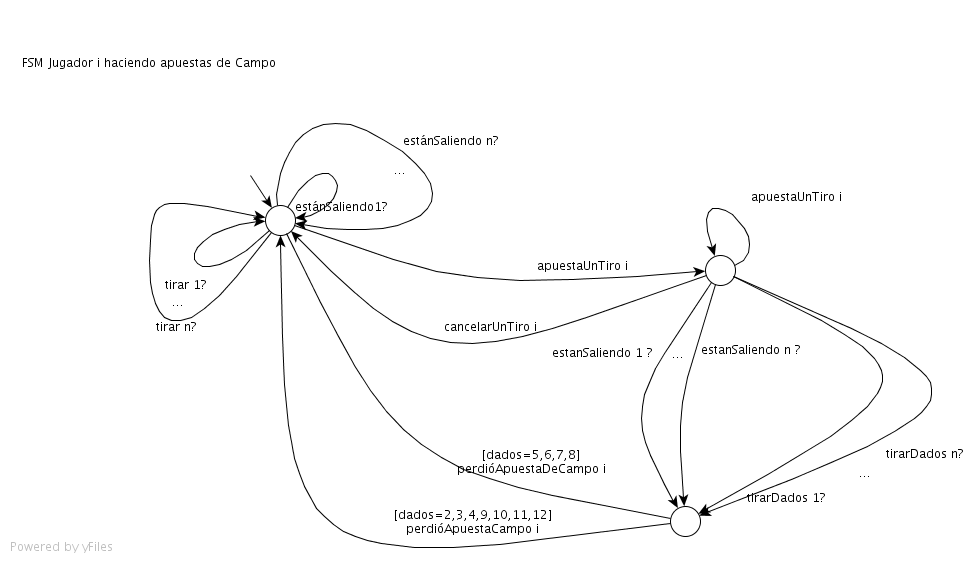
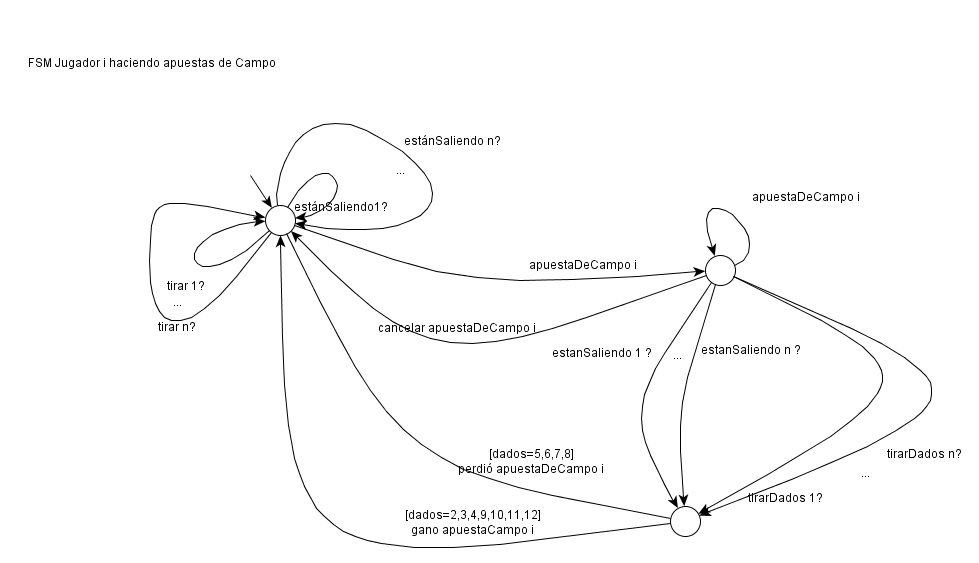
tablitas de labels de fsm's e algunas modificaciones en las imagenes

diff --git a/tp1/informe/glosario.tex b/tp1/informe/glosario.tex
@@ -8,7 +8,8 @@
 \subsubsection{Craps}
 \begin{center}
     \begin{tabular}{p{5cm}|p{8cm}}
- 
+
+%%%%%%%%%%% TIRADOR %%%%%%%%%%%% 
 %      \multicolumn{2}{c}{Referencias de las etiquetas y Variable de la \negrita{ \tirador{} } \\
     \hline
     \negrita{Etiqueta de la transici'on} & \negrita{Acci'on} \\
@@ -34,7 +35,8 @@
     \label{glosarioFSMjugadori}
     \end{tabular}
 \end{center}
- 
+
+%%%%%%%%%%% CRUPIER %%%%%%%%%%%% 
  \begin{center}
     \begin{tabular}{p{5cm}|p{8cm}}
            \multicolumn{2}{c}{Referencias de las etiquetas de la \crupier } \\
@@ -44,33 +46,70 @@
             darleDadosAl ProximoTirador & los dados pasan al pr'oximo jugador  \\
         \hline
             \italica{Variable} tirador & almancena el n'umero de tirador actual o candidato a tirador si decidiera dejar los dados\\
+        \hline
+            \italica{Variable} punto & almancena el valor del punto en la ronda.\\
  \end{tabular}
  \end{center}
 
+%%%%%%%%%%% APUESTA LINEA DE PASE / BARRA NO PASE %%%%%%%%%%%% 
 \begin{center}
   \begin{tabular}{p{5cm}|p{8cm}}
-      \multicolumn{2}{c}{Referencias de las etiquetas de la \textbf{FSM Apuesta m'as de una ronda i } } \\
+      \multicolumn{2}{c}{Referencias de las etiquetas de la \textbf{FSM Jugador haciendo apuesta linea de pase / no pase i } } \\
       \hline
       \negrita{Etiqueta de la transici'on} & \negrita{Acci'on} \\
-      apuestaDeMasDeUna Ronda i & el jugador i hace una apuesta  \\
+      apuestaDeMasDeUnaRonda i & el jugador i hace una apuesta del tipo linea de pase / barra no pase \\
       \hline
-      perdi'oApuestaDeUna Ronda i & el jugador i gano su apuesta \\
+      ganoApuestaDeUnaRonda i & el jugador i gan'o su apuesta del tipo linea de pase / barra no pase.\\
       \hline
-      perdi'oApuestaDeUna Ronda i & el jugador i perdió su apuesta    \\  
+      perdi'oApuestaDeUna Ronda i & el jugador i perdi'o su apuesta del tipo linea de pase / barra no pase.\\  
   \end{tabular}
 \end{center}
 
-
+%%%%%%%%%%% APUESTA DE CAMPO %%%%%%%%%%%%
 \begin{center}
     \begin{tabular}{p{5cm}|p{8cm}}
-    \multicolumn{2}{c}{Referencias de las etiquetas de la \textbf{FSM Apuesta de un tiro i } } \\
+    \multicolumn{2}{c}{Referencias de las etiquetas de la \textbf{FSM Jugador i haciendo apuesta de campo } } \\
     \hline
     \negrita{Etiqueta de la transici'on} & \negrita{Acci'on} \\
-    apuestaDeMasDeUna Ronda i & el jugador i hace una apuesta  \\
+    apuestaUnTiro i & el jugador i hace una apuesta de campo  \\
     \hline
-    perdi'oApuestaDeUna Ronda i & el jugador i gano su apuesta \\
+    ganoApuestaDeUnTiro i & el jugador i gano su apuesta \\
     \hline
-    perdi'oApuestaDeUna Ronda i & el jugador i perdió su apuesta    \\  
+    perdi'oApuestaDeUnTiro i & el jugador i perdió su apuesta    \\  
+    \end{tabular}
+\end{center}
+
+%%%%%%%%%%% APUESTA DE SITIO %%%%%%%%%%%
+\begin{center}
+    \begin{tabular}{p{5cm}|p{8cm}}
+    \multicolumn{2}{c}{Referencias de las etiquetas de la \textbf{FSM Jugador i haciendo apuesta de sitio } } \\
+    \hline
+    \negrita{Etiqueta de la transici'on} & \negrita{Acci'on} \\
+    apuestaDeSitio i 2..12 & el jugador i hace una apuesta de sitio, se setea a que n'umero apost'o (a ganar o perder) \\
+    \hline
+    salioNroApostadoAntesQue7 i & la apuesta se resolvi'o debido a que el n'umero sobre el cual se realiz'o la apuesta sali'o antes que salga un siete. \\
+    \hline
+    salio7AntesQueNro i & la apuesta se resolvi'o debido a que sali'o un siete antes que saliera el n'umero sobre el cual se realiz'o la apuesta. \\
+    \end{tabular}
+\end{center}
+
+%%%%%%%%%%% APUESTA VENIR NO VENIR %%%%%%%%%%%%
+\begin{center}
+    \begin{tabular}{p{5cm}|p{8cm}}
+    \multicolumn{2}{c}{Referencias de las etiquetas de la \textbf{FSM Jugador i haciendo apuesta venir/no venir } } \\
+    \hline
+    \negrita{Etiqueta de la transici'on} & \negrita{Acci'on} \\
+    apuestaVenir/NoVenir i & el jugador i hace una apuesta del tipo venir o del tipo no venir \\
+    \hline
+    puntoVenirNoVenir i & se fija el valor del punto venir o el valor del punto no venir \\
+    \hline
+    puntoOtraVez i & se define la apuesta del jugador i debido a que se repiti'o el valor del puntoVenirNoVenir antes de la ocurrencia de un siete \\
+    \hline
+    sieteAntesDePuntoVenirNoVenir i & se define la apuesta del jugador i debido a que sali'o un siete antes que el valor del puntoVenirNoVenir.\\
+    \hline
+    ganoVenirNoVenir i & el jugador i gan'o su apuesta venir/ no venir. \\
+    \hline
+    perdioVenirNoVenir i & el jugador i perdi'o su apuesta venir/ no venir. \\
     \end{tabular}
 \end{center}
 
